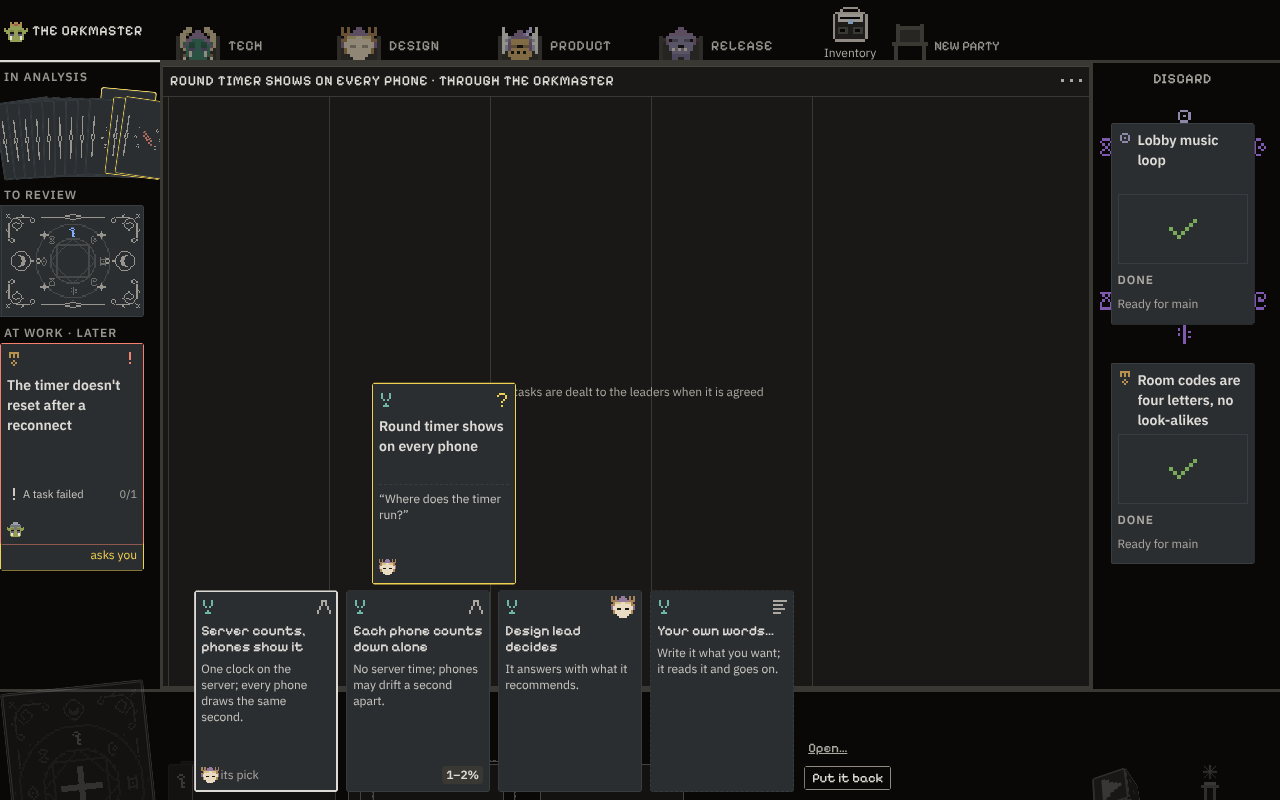
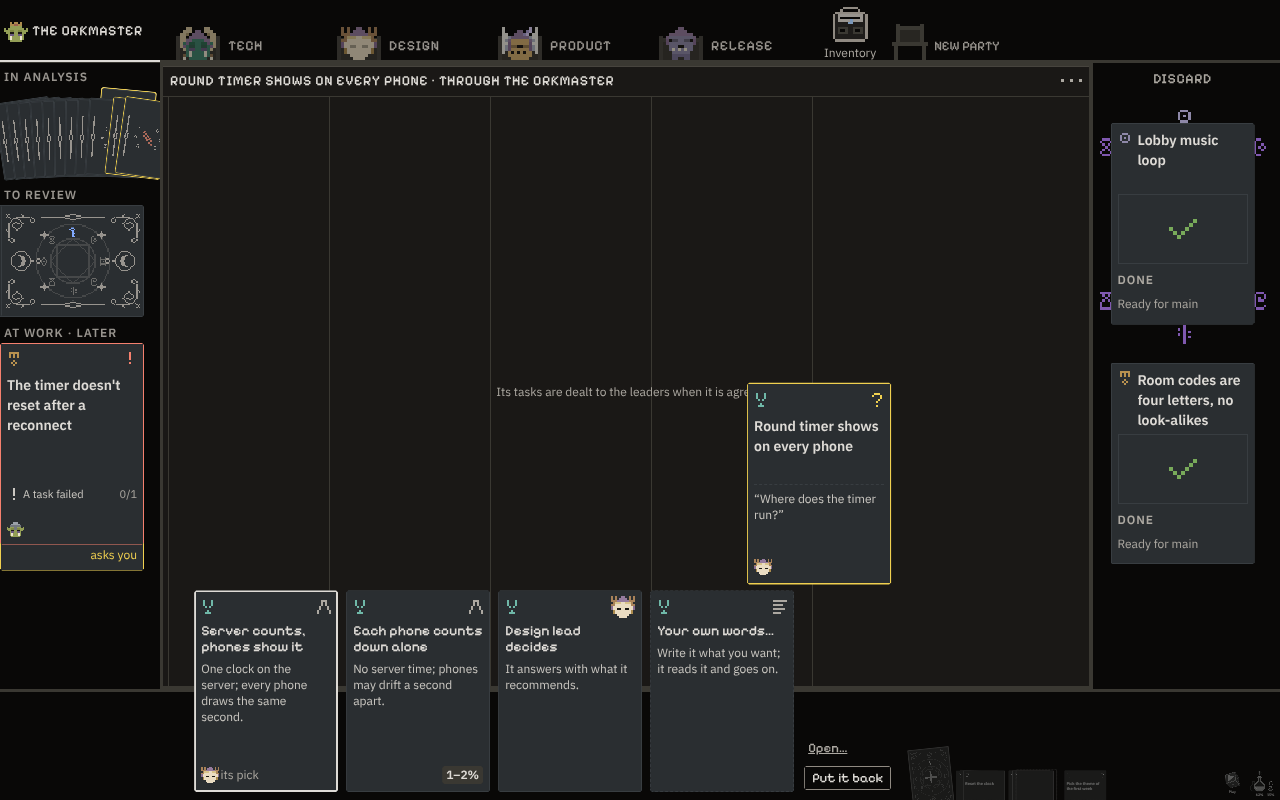
Risen question stands at the ways row's right end, off every lane's Talk; the sunk hand shows beside the ways (goal 158 H, Design Done when 5)
Claude-Session: https://claude.ai/code/session_01MCU3dpbKvLjgD4LJ6vm5TH

diff --git a/orkboard/gui/static/js/hand/answercards.js b/orkboard/gui/static/js/hand/answercards.js
@@ -84,16 +84,20 @@ export function AnswerLifted({ s, anchor, set }) {
   const rune = { name: element, hue, dim: !element }, goal = s.node?.slug || s.row?.idea || "";
   useAbout(s);
   useRing(goal, set.tone === "fails" ? "fails" : "asks");
-  useLayoutEffect(() => {                                              // over the slot it left, kept inside the hand's width; its ways start where the hand's cards lie, after the + card
+  useLayoutEffect(() => {                                              // risen at the right end of the ways row, over its acts (never over a lane's Talk or question); the sunk hand shrinks into the strip right of the ways
     const place = () => {
-      const hand = box.current?.parentElement, a = anchor?.isConnected ? anchor.getBoundingClientRect() : null;
+      const hand = box.current?.parentElement, r = row.current?.getBoundingClientRect();
       if (!hand) { setAt(null); return; }
-      const h = hand.getBoundingClientRect(), plus = hand.querySelector(".hand-plus")?.getBoundingClientRect();
-      setAt({ left: a ? Math.max(0, Math.min(a.left - h.left, h.width - 144)) : 0, ways: Math.max(0, plus ? plus.right - h.left + 28 : 200) });
+      const h = hand.getBoundingClientRect(), plus = hand.querySelector(".hand-plus")?.getBoundingClientRect(), ways = Math.max(0, plus ? plus.right - h.left + 28 : 200);
+      const end = r && r.width ? r.right - h.left : h.width, left = Math.max(0, Math.min(end - 144, h.width - 144 - 12));
+      hand.style.setProperty("--hc-sunk-s", String(Math.max(0.2, Math.min(0.5, (h.width - end - 16) / h.width))));
+      setAt({ left, ways });
     };
     place();
+    const watch = typeof ResizeObserver === "function" && row.current ? new ResizeObserver(place) : null;
+    watch?.observe(row.current);
     window.addEventListener("resize", place);
-    return () => window.removeEventListener("resize", place);
+    return () => { watch?.disconnect(); window.removeEventListener("resize", place); box.current?.parentElement?.style.removeProperty("--hc-sunk-s"); };
   }, [s.key, anchor]);
   useEffect(() => { box.current?.focus({ preventScroll: true }); }, [s.key]);
   const { ways, decide } = set, tone = set.tone, asking = tone === "asks", own = asking ? askedInfo(s).name : "";
@@ -128,7 +132,7 @@ export function AnswerLifted({ s, anchor, set }) {
       <button type="button" class="ork-btn hand-put" data-act="put" onClick=${lower}>Put it back</button>
     </div>
   </div>
-  ${pen && html`<div class="hand-pen" role="group" aria-label="Your own words" style=${at ? `left:${at.left + 144 + 16}px` : undefined}>
+  ${pen && html`<div class="hand-pen" role="group" aria-label="Your own words" style=${at ? `left:${Math.max(0, at.left - 16 - 360)}px;width:${Math.min(360, at.left - 16)}px` : undefined}>
     <textarea ref=${field} class="ork-field hand-pen__text" rows="4" aria-label=${`Your words to ${named(own)}`} placeholder=${`Your words to ${named(own)}…`} value=${words} onInput=${(e) => setWords(e.currentTarget.value)} onKeyDown=${fieldKey}></textarea>
     <button type="button" class="ork-btn primary" data-act="send-words" onClick=${send}>${`Send to ${named(own)}`}</button>
   </div>`}`;

diff --git a/orkboard/gui/static/js/hand/openedcard.css b/orkboard/gui/static/js/hand/openedcard.css
@@ -87,7 +87,7 @@
   .hand .hand-lifted--asked.asks { box-shadow: 0 0 0 2px var(--ork-alert), -14px 10px 30px var(--ork-scrim); }
   .hand .hand-lifted--asked.fails { box-shadow: 0 0 0 2px var(--ork-danger), -14px 10px 30px var(--ork-scrim); }
   .hand .hand-lifted--asked:focus-visible { outline: 0; }
-  .hand-row.is-sunk { translate: 0 64px; opacity: 0.3; filter: grayscale(1); transition: translate var(--ork-motion-base) var(--ork-motion-ease), opacity var(--ork-motion-base) var(--ork-motion-ease); pointer-events: none; }
+  .hand-row.is-sunk { transform-origin: 100% 100%; scale: var(--hc-sunk-s, 0.3); opacity: 0.5; filter: grayscale(1); transition: scale var(--ork-motion-base) var(--ork-motion-ease), opacity var(--ork-motion-base) var(--ork-motion-ease); pointer-events: none; }      /* still there, set aside: shrunk, grey and inert into the strip right of the ways row */
   .hand-ways-row { position: absolute; left: var(--hc-wleft, 200px); bottom: var(--hc-ways); z-index: 60; display: flex; align-items: flex-end; gap: var(--ork-4); max-width: calc(100% - var(--hc-wleft, 200px) - var(--ork-3));
     animation: hand-rise var(--ork-motion-base) var(--ork-motion-ease) both; }
   .hand-ways-cards { display: flex; align-items: flex-end; gap: var(--ork-4); min-width: 0; padding: var(--ork-1); overflow-x: auto; }

diff --git a/tests/test_answer_cards_browser.py b/tests/test_answer_cards_browser.py
@@ -94,6 +94,8 @@ def test_a_lifted_question_stays_a_hand_card_in_its_ring_and_its_ways_are_cards_
         assert row.evaluate("e => getComputedStyle(e).filter") == "grayscale(1)", "grey"
         top, hand = card.bounding_box(), pg.locator(".hand").bounding_box()
         assert top["y"] + top["height"] < pg.locator(".hand-ways-row").bounding_box()["y"] + 1, "the question stands on the table's foot over its ways"
+        wr = pg.locator(".hand-ways-row").bounding_box()
+        assert abs(top["x"] + top["width"] - (wr["x"] + wr["width"])) <= 2, "at the right end of the ways row, over its acts"
         assert top["y"] >= 0 and hand["y"] > 0
         narrow.no_sideways(pg)
         shot(pg, "question")
@@ -240,7 +242,7 @@ def test_your_own_words_opens_a_focused_field_beside_the_question_and_sends_the_
         assert field.evaluate("e => e === document.activeElement"), "focused"
         assert own.evaluate("e => getComputedStyle(e).borderStyle") == "solid"
         box, q = pg.locator(".hand-pen").bounding_box(), card.bounding_box()
-        assert abs(box["y"] + box["height"] - (q["y"] + q["height"])) <= 2 and box["x"] >= q["x"] + q["width"], (box, q)
+        assert abs(box["y"] + box["height"] - (q["y"] + q["height"])) <= 2 and box["x"] + box["width"] <= q["x"], (box, q)      # left of the question: the right of it is the table's empty foot and the discard
         send = pg.get_by_role("button", name="Send to ")
         assert send.inner_text().strip().startswith("Send to ")
         shot(pg, "pen")
@@ -304,6 +306,31 @@ def test_a_goal_in_talk_lifted_lays_its_leaders_talk_and_its_question_on_the_tab
         assert pg.locator(".plan-wait").count() == 0, "something was said: not the empty line"
         assert board.locator(".plan-talk button, .plan-talk input").count() == 0, "read-only: nothing to press"
         shot(pg, "talk-table")
+    finally:
+        pg.close()
+    assert not log, "\n".join(log)
+
+
+def test_the_risen_question_covers_no_lanes_talk_and_the_sunk_hand_can_be_seen(gui):
+    """Spec 158 H, Design's Done when 5: at 1280 x 800 the risen question stands right of the ways, over no lane's Talk or question; the sunk hand shows beside the ways row, grey and inert."""
+    pg, host, log = open_hand(gui, host=TalkHost())
+    try:
+        card = lift(pg, "asks", "phones")
+        pg.locator(".plan-talk").first.wait_for(timeout=WAIT_MS)
+        q = card.bounding_box()
+        for lane in pg.locator(".plan-talk").all():
+            for part in lane.locator(":scope > *, .plan-talk__ask > *").all():
+                b = part.bounding_box()
+                if not b or not b["width"]:
+                    continue
+                apart = q["x"] >= b["x"] + b["width"] or q["x"] + q["width"] <= b["x"] or q["y"] >= b["y"] + b["height"] or q["y"] + q["height"] <= b["y"]
+                assert apart, ("the question covers Talk", q, b)
+        row, ways = pg.locator(".hand-row.is-sunk"), pg.locator(".hand-ways-row").bounding_box()
+        assert row.evaluate("e => e.inert") and row.evaluate("e => getComputedStyle(e).filter") == "grayscale(1)"
+        r = row.bounding_box()
+        assert r["x"] >= ways["x"] + ways["width"] - 2 and r["width"] > 100, ("the sunk hand beside the ways, not under them", r, ways)
+        assert row.locator(".hand-card, .hand-slot").count() > 0
+        shot(pg, "product-talk")
     finally:
         pg.close()
     assert not log, "\n".join(log)

diff --git a/tests/test_design_system.py b/tests/test_design_system.py
@@ -156,7 +156,7 @@ def test_orkboards_own_sheets_carry_no_colour_no_font_and_no_corner_of_their_own
         legacy -= {"--hf-left", "--hf-w", "--hf-top"}   # spec 128 A.1, spec 147 D.2: where the field lies, its left edge on the + card's, its width and its top over the hand (hand/fieldturn.js `placeField`)
         legacy -= {"--column-tuck", "--column-w", "--col-shown", "--col-edge", "--col-out"}   # spec 130 E: the column's width of its own, a face-down card's tuck, what shows of it, the piles' right edge, the room a card slides out into (frame/frame.css, table/column.css)
         legacy -= {"--up-h", "--up-rise"}   # spec 147 F: the phone's opened card as tall as the screen leaves while the keyboard is up, and how far a pressed card of the hand's row rises (hand/upright.css, stopcard.js)
-        legacy -= {"--hc-lap", "--hc-ways", "--hc-wleft"}   # spec 150 A: how far past its box a card laid over the column lets its shadow fall (hand/hand.css, the field and the lifted card); spec 158 F: where the answer cards lie, from the hand's foot and from its left (hand/openedcard.css)
+        legacy -= {"--hc-lap", "--hc-ways", "--hc-wleft", "--hc-sunk-s"}   # spec 158 F: the sunk hand's shrink beside the ways row; spec 150 A: how far past its box a card laid over the column lets its shadow fall (hand/hand.css, the field and the lifted card); spec 158 F: where the answer cards lie, from the hand's foot and from its left (hand/openedcard.css)
         legacy -= {"--dash"}   # spec 130 B.1: the empty slot's dashes in the edge or the ink (hand/mana.css), until orkUI draws `.ork-potion.is-empty`
         legacy -= {"--edge-w"}   # spec 150 D.1: the width of the table's edge, the frame's third column (frame/frame.css)
         assert not legacy, (path.name, legacy)
